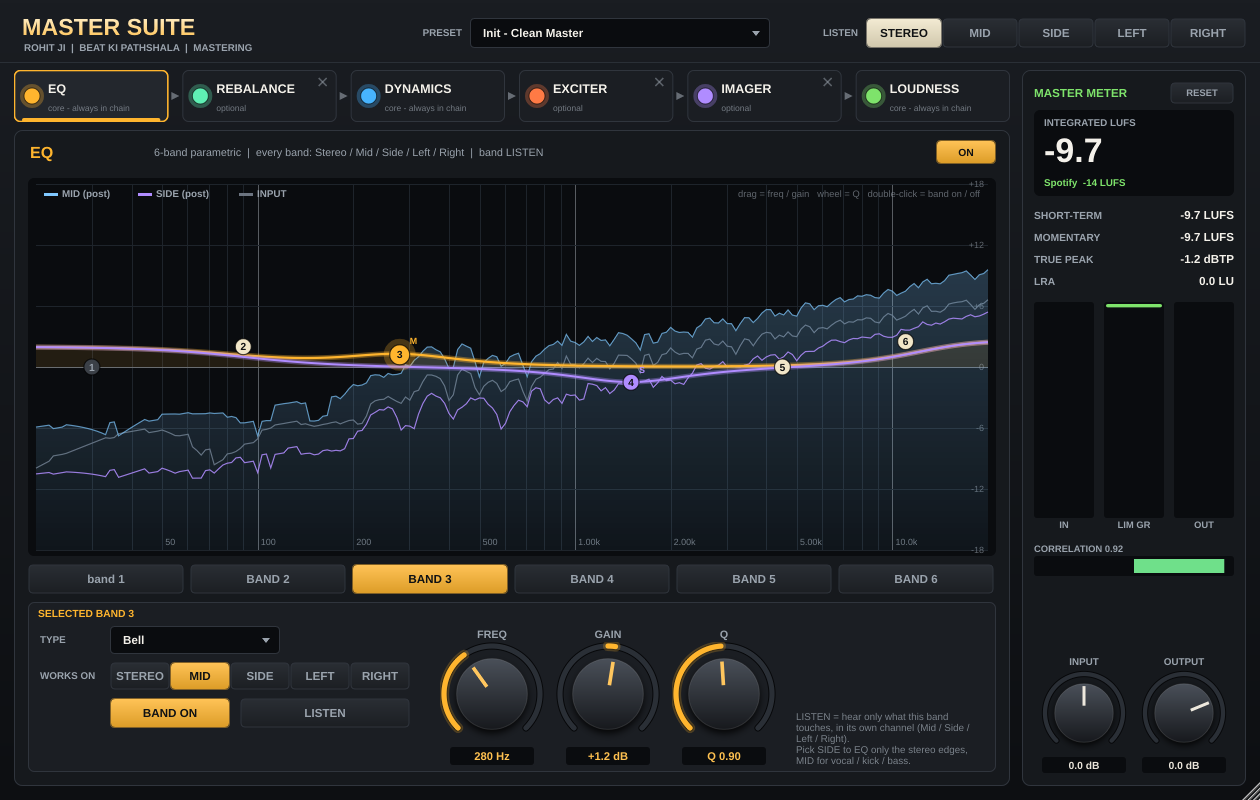
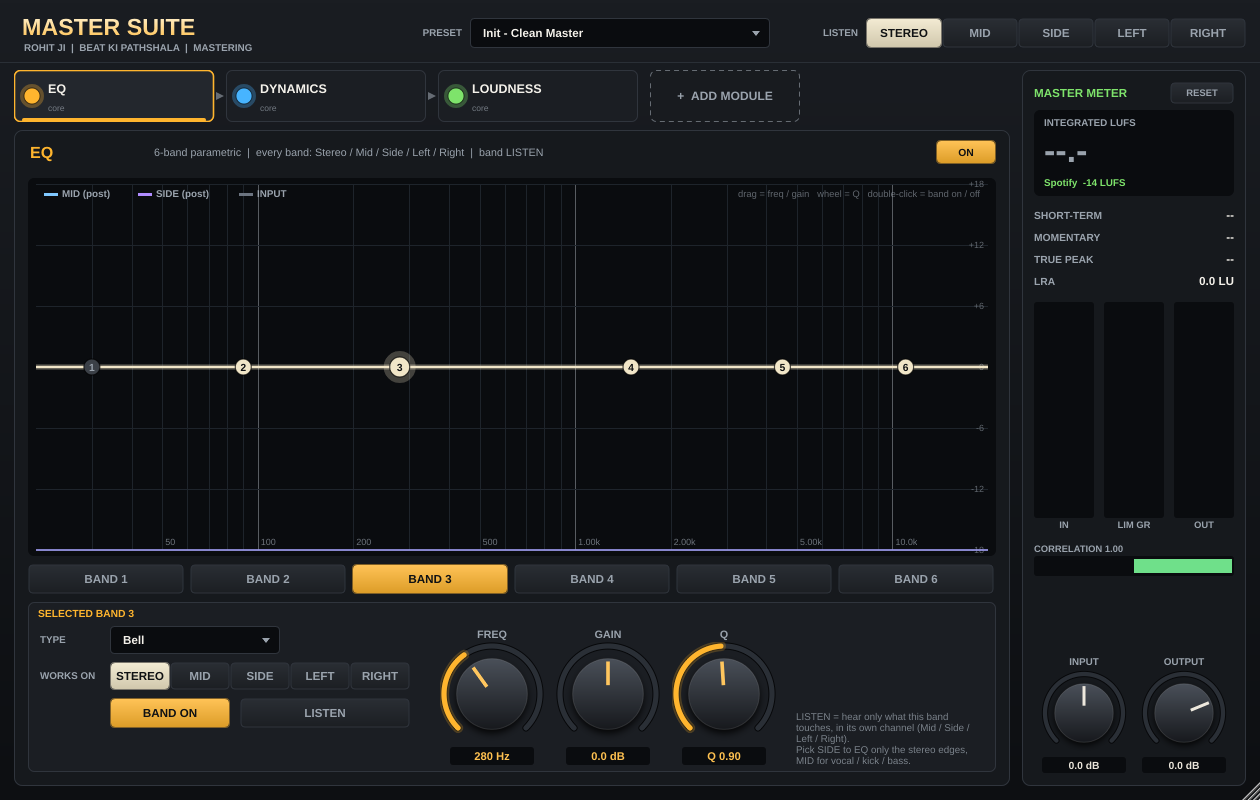
v1.1.0: show only inserted modules (+ ADD MODULE menu), 32-bit setup warns on 64-bit Windows
Claude-Session: https://claude.ai/code/session_01TbDuGb2VfcF7HRDnnBL48r

diff --git a/Source/PluginEditor.cpp b/Source/PluginEditor.cpp
@@ -1174,74 +1174,114 @@ void MasterMeter::paint (Graphics& g)
 
 //==============================================================================
 ModuleTabs::ModuleTabs (MasterSuiteProcessor& p) : proc (p) { startTimerHz (10); }
-Rectangle<float> ModuleTabs::tab (int i) const
+
+/** only modules that are in the chain get a tab; the rest live behind "+ ADD MODULE" */
+std::vector<int> ModuleTabs::visible() const
 {
-    const float gap = 14.0f, w = ((float) getWidth() - gap * 5) / 6.0f;
-    return { (float) i * (w + gap), 0.0f, w, (float) getHeight() };
+    std::vector<int> v;
+    for (int i = 0; i < (int) Mod::Count; ++i) if (proc.isInserted ((Mod) i)) v.push_back (i);
+    return v;
 }
-Rectangle<float> ModuleTabs::led (int i) const { auto t = tab (i); return { t.getX() + 10, t.getCentreY() - 8, 16, 16 }; }
-Rectangle<float> ModuleTabs::cross (int i) const { auto t = tab (i); return { t.getRight() - 22, t.getY() + 4, 16, 16 }; }
+bool ModuleTabs::canAdd() const { return visible().size() < (size_t) Mod::Count; }
+Rectangle<float> ModuleTabs::addButton() const
+{
+    if (! canAdd()) return {};
+    const auto v = visible(); const float gap = 12.0f, addW = 150.0f;
+    const float w = jmin (200.0f, ((float) getWidth() - addW - gap * (float) v.size()) / (float) v.size());
+    return { (float) v.size() * (w + gap), 0.0f, addW, (float) getHeight() };
+}
+Rectangle<float> ModuleTabs::tab (int slot) const
+{
+    const auto v = visible(); const float gap = 12.0f, addW = canAdd() ? 150.0f : 0.0f;
+    const float n = (float) v.size();
+    const float w = jmin (200.0f, ((float) getWidth() - addW - gap * (canAdd() ? n : n - 1)) / n);
+    return { (float) slot * (w + gap), 0.0f, w, (float) getHeight() };
+}
+Rectangle<float> ModuleTabs::led (int slot) const { auto t = tab (slot); return { t.getX() + 10, t.getCentreY() - 8, 16, 16 }; }
+Rectangle<float> ModuleTabs::cross (int slot) const { auto t = tab (slot); return { t.getRight() - 22, t.getY() + 4, 16, 16 }; }
 
 void ModuleTabs::paint (Graphics& g)
 {
-    for (int i = 0; i < 6; ++i)
+    const auto v = visible();
+    for (int s = 0; s < (int) v.size(); ++s)
     {
-        const auto m = (Mod) i; const auto t = tab (i); const auto c = modColour (m);
-        const bool ins = proc.isInserted (m), on = ins && proc.get (String (modKey (m)) + "_on") > 0.5f;
+        const int i = v[(size_t) s];
+        const auto m = (Mod) i; const auto t = tab (s); const auto c = modColour (m);
+        const bool on = proc.get (String (modKey (m)) + "_on") > 0.5f;
         const bool sel = i == selected;
-        g.setColour (sel ? col::panelHi : (i == hover ? Colour (0xff1f2328) : col::panel));
+        g.setColour (sel ? col::panelHi : (s == hover ? Colour (0xff1f2328) : col::panel));
         g.fillRoundedRectangle (t, 6);
         g.setColour (sel ? c : col::edge); g.drawRoundedRectangle (t.reduced (0.5f), 6, sel ? 1.6f : 1.0f);
         if (sel) { g.setColour (c); g.fillRoundedRectangle (t.withTop (t.getBottom() - 4).reduced (8, 0), 2); }
-        if (i < 5)
+        if (s < (int) v.size() - 1)
         {
             g.setColour (col::textDim.withAlpha (0.6f));
-            Path a; const float ax = t.getRight() + 3, ay = t.getCentreY(); a.addTriangle (ax, ay - 4, ax + 8, ay, ax, ay + 4); g.fillPath (a);
+            Path a; const float ax = t.getRight() + 2, ay = t.getCentreY(); a.addTriangle (ax, ay - 4, ax + 8, ay, ax, ay + 4); g.fillPath (a);
         }
-        if (! ins)
-        {
-            g.setColour (col::textDim.withAlpha (0.55f)); g.setFont (font (13.0f));
-            g.drawText ("+  " + String (modName (m)), t, Justification::centred, false);
-            g.setFont (font (9.5f, false));
-            g.drawText ("click to add", t.withTrimmedTop (30), Justification::centred, false);
-            continue;
-        }
-        const auto l = led (i);
+        const auto l = led (s);
         if (on) { g.setColour (c.withAlpha (0.3f)); g.fillEllipse (l.expanded (4)); }
         g.setColour (on ? c : Colour (0xff3b4047)); g.fillEllipse (l);
         g.setColour (Colours::black.withAlpha (0.6f)); g.drawEllipse (l, 1.0f);
         g.setColour (on ? col::text : col::textDim); g.setFont (font (14.0f));
-        g.drawText (modName (m), t.withTrimmedLeft (34).withTrimmedBottom (14), Justification::centredLeft, false);
+        g.drawText (modName (m), t.withTrimmedLeft (34).withTrimmedRight (20).withTrimmedBottom (14), Justification::centredLeft, true);
         g.setColour (col::textDim.withAlpha (0.7f)); g.setFont (font (9.5f, false));
-        g.drawText (modIsCore (m) ? "core - always in chain" : (on ? "optional" : "optional - bypassed"), t.withTrimmedLeft (34).withTrimmedTop (24), Justification::centredLeft, false);
+        g.drawText (modIsCore (m) ? (on ? "core" : "core - bypassed") : (on ? "add-on" : "add-on - bypassed"),
+                    t.withTrimmedLeft (34).withTrimmedTop (24), Justification::centredLeft, true);
         if (! modIsCore (m))
         {
-            const auto x = cross (i);
-            g.setColour (col::textDim.withAlpha (hover == i ? 1.0f : 0.5f));
+            const auto x = cross (s);
+            g.setColour (col::textDim.withAlpha (hover == s ? 1.0f : 0.5f));
             g.drawLine (x.getX() + 4, x.getY() + 4, x.getRight() - 4, x.getBottom() - 4, 1.6f);
             g.drawLine (x.getRight() - 4, x.getY() + 4, x.getX() + 4, x.getBottom() - 4, 1.6f);
         }
     }
+    if (canAdd())
+    {
+        const auto a = addButton();
+        g.setColour (hover == 99 ? Colour (0xff23272d) : Colour (0xff181b1f)); g.fillRoundedRectangle (a, 6);
+        g.setColour (col::textDim.withAlpha (0.6f));
+        Path dash; dash.addRoundedRectangle (a.reduced (0.5f), 6);
+        float dl[] = { 5.0f, 4.0f }; PathStrokeType (1.0f).createDashedStroke (dash, dash, dl, 2);
+        g.fillPath (dash);
+        g.setColour (hover == 99 ? col::text : col::textDim); g.setFont (font (13.5f));
+        g.drawText ("+  ADD MODULE", a, Justification::centred, false);
+    }
 }
 void ModuleTabs::mouseMove (const MouseEvent& e)
 {
-    int h = -1; for (int i = 0; i < 6; ++i) if (tab (i).contains (e.position)) h = i;
+    int h = -1; const auto v = visible();
+    for (int s = 0; s < (int) v.size(); ++s) if (tab (s).contains (e.position)) h = s;
+    if (canAdd() && addButton().contains (e.position)) h = 99;
     if (h != hover) { hover = h; repaint(); }
 }
 void ModuleTabs::mouseDown (const MouseEvent& e)
 {
-    for (int i = 0; i < 6; ++i)
+    if (canAdd() && addButton().contains (e.position))
     {
-        if (! tab (i).contains (e.position)) continue;
-        const auto m = (Mod) i;
-        if (! proc.isInserted (m)) { proc.setInserted (m, true); selected = i; if (onSelect) onSelect (i); repaint(); return; }
-        if (! modIsCore (m) && cross (i).expanded (4).contains (e.position))
+        PopupMenu menu;
+        for (int i = 0; i < (int) Mod::Count; ++i)
+            if (! proc.isInserted ((Mod) i)) menu.addItem (i + 1, String ("Add ") + modName ((Mod) i));
+        menu.showMenuAsync (PopupMenu::Options().withTargetComponent (this).withTargetScreenArea (localAreaToGlobal (addButton().toNearestInt())),
+                            [this] (int r)
+                            {
+                                if (r <= 0) return;
+                                proc.setInserted ((Mod) (r - 1), true);
+                                selected = r - 1; if (onSelect) onSelect (selected); repaint();
+                            });
+        return;
+    }
+    const auto v = visible();
+    for (int s = 0; s < (int) v.size(); ++s)
+    {
+        if (! tab (s).contains (e.position)) continue;
+        const int i = v[(size_t) s]; const auto m = (Mod) i;
+        if (! modIsCore (m) && cross (s).expanded (4).contains (e.position))
         {
-            proc.setInserted (m, false);
+            proc.setInserted (m, false);   // removed from the chain and from the screen
             if (selected == i) { selected = 0; if (onSelect) onSelect (0); }
-            repaint(); return;
+            hover = -1; repaint(); return;
         }
-        if (led (i).expanded (6).contains (e.position))
+        if (led (s).expanded (6).contains (e.position))
         {
             const String id = String (modKey (m)) + "_on";
             proc.setParam (id, proc.get (id) > 0.5f ? 0.0f : 1.0f); repaint(); return;

diff --git a/Tests/TestMain.cpp b/Tests/TestMain.cpp
@@ -285,6 +285,15 @@ int main (int argc, char** argv)
     }
 
 #if MS_SHOTS
+    // default view: only the 3 core modules + ADD MODULE
+    {
+        auto p = make (fs);
+        std::unique_ptr<AudioProcessorEditor> ed (p->createEditor());
+        ed->setVisible (true);
+        auto img = ed->createComponentSnapshot (ed->getLocalBounds(), true, 1.0f);
+        File f (File::getCurrentWorkingDirectory().getChildFile ("shot_default.png"));
+        f.deleteFile(); FileOutputStream os (f); PNGImageFormat().writeImageToStream (img, os);
+    }
     // screenshots of every page
     {
         auto p = make (fs);

diff --git a/Source/PluginEditor.h b/Source/PluginEditor.h
@@ -267,9 +267,12 @@ public:
     std::function<void (int)> onSelect;
 private:
     void timerCallback() override { repaint(); }
-    juce::Rectangle<float> tab (int i) const;
-    juce::Rectangle<float> led (int i) const;
-    juce::Rectangle<float> cross (int i) const;
+    std::vector<int> visible() const;
+    bool canAdd() const;
+    juce::Rectangle<float> addButton() const;
+    juce::Rectangle<float> tab (int slot) const;
+    juce::Rectangle<float> led (int slot) const;
+    juce::Rectangle<float> cross (int slot) const;
     MasterSuiteProcessor& proc; int hover = -1;
 };
 } // namespace ui
